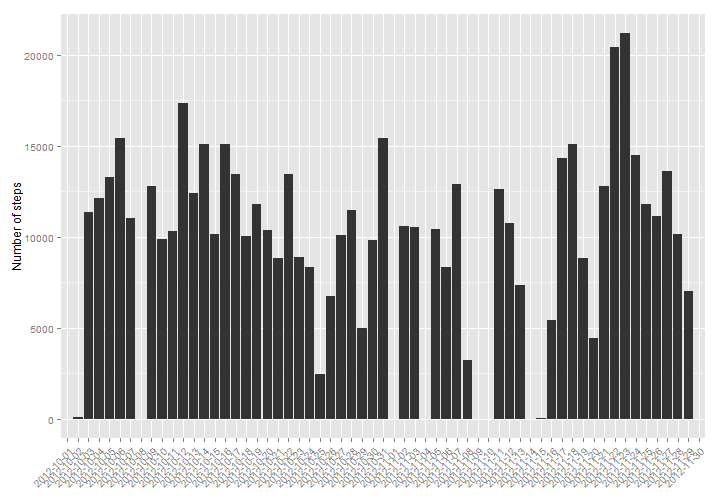
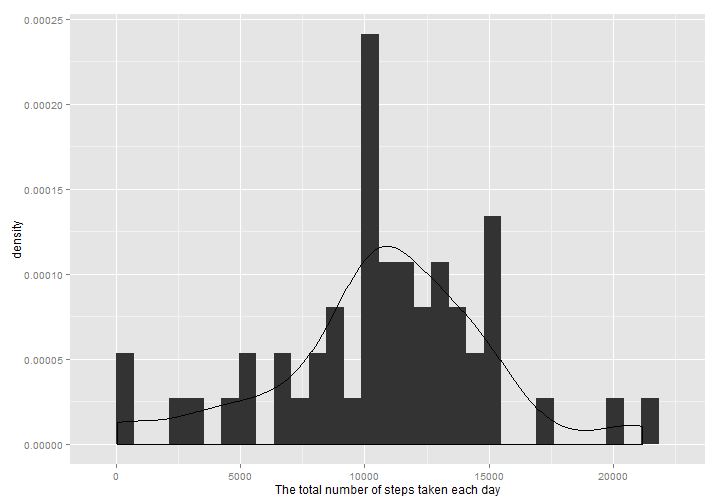
Hist

diff --git a/PA1_template.html b/PA1_template.html
@@ -207,7 +207,12 @@ hr {
 activity$date &lt;- as.Date(activity$date, &quot;%Y-%m-%d&quot;)
 
 library(ggplot2)
-library(grid)
+</code></pre>
+
+<pre><code>## Warning: package &#39;ggplot2&#39; was built under R version 3.1.3
+</code></pre>
+
+<pre><code class="r">library(grid)
 library(gridExtra)
 </code></pre>
 
@@ -224,22 +229,24 @@ library(gridExtra)
 
 <pre><code class="r">x_sum &lt;- tapply(activity$steps, activity$date, sum)
 sum_data &lt;- data.frame(row = seq_len(nrow(x_sum)), date = names(x_sum), sum = as.numeric(x_sum))
-sum_data[is.na(sum_data)] &lt;- 0
 
 steps_mean &lt;- mean(sum_data$sum, na.rm = TRUE)
 steps_median &lt;- median(sum_data$sum, na.rm = TRUE)
 
-ggplot(sum_data, aes(x=date, y=sum)) +
-    geom_bar(stat=&quot;identity&quot;) +
-    ylab(&quot;Number of steps&quot;) +
-    theme(axis.title.x = element_blank(), axis.text.x = element_text(angle = 45, hjust = 1))
+ggplot(data = na.omit(sum_data), aes(x=sum)) +
+    geom_histogram(aes(y = ..density..)) +
+    geom_density() + 
+    xlab(&quot;The total number of steps taken each day&quot;)
 </code></pre>
 
[1 lines of base64/hex data omitted]
+<pre><code>## stat_bin: binwidth defaulted to range/30. Use &#39;binwidth = x&#39; to adjust this.
+</code></pre>
 
-<p>The <strong>mean</strong> of the total number of steps taken per day is <strong>9354.2295082</strong>.</p>
[1 lines of base64/hex data omitted]
 
-<p>The <strong>median</strong> of the total number of steps taken per day is <strong>1.0395 &times; 10<sup>4</sup></strong>.</p>
+<p>The <strong>mean</strong> of the total number of steps taken per day is <strong>1.0766189 &times; 10<sup>4</sup></strong>.</p>
+
+<p>The <strong>median</strong> of the total number of steps taken per day is <strong>1.0765 &times; 10<sup>4</sup></strong>.</p>
 
 <h2>What is the average daily activity pattern?</h2>
 
@@ -322,7 +329,7 @@ wx5_enddata &lt;- data.frame(row = seq_len(nrow(wx5_end)), interval = names(wx5_
 
 p1 &lt;- ggplot(wx5_daydata, aes(x=row, y=mean)) +
     geom_line(stat=&quot;identity&quot;) +
-    ylab(&quot;Number of steps&quot;) +
+    ylab(&quot;Number of steps&quot;) + xlab(&quot; &quot;) +
     ggtitle(&quot;Weekday&quot;) +
     theme(axis.text.x = element_text(angle = 45, hjust = 1)) +
     scale_x_continuous(breaks=c(1,37,73,109,145,181,217,253,289),
@@ -331,7 +338,7 @@ p1 &lt;- ggplot(wx5_daydata, aes(x=row, y=mean)) +
 
 p2 &lt;- ggplot(wx5_enddata, aes(x=row, y=mean)) +
     geom_line(stat=&quot;identity&quot;) +
-    ylab(&quot;Number of steps&quot;) +
+    ylab(&quot;Number of steps&quot;) + xlab(&quot; &quot;) +
     ggtitle(&quot;Weekend&quot;) +
     theme(axis.text.x = element_text(angle = 45, hjust = 1)) +
     scale_x_continuous(breaks=c(1,37,73,109,145,181,217,253,289),
@@ -341,7 +348,7 @@ p2 &lt;- ggplot(wx5_enddata, aes(x=row, y=mean)) +
 grid.arrange(p1, p2, ncol = 1)
 </code></pre>
 
[2 lines of base64/hex data omitted]
 
 </body>
 

diff --git a/PA1_template.md b/PA1_template.md
@@ -11,6 +11,13 @@ activity <- read.csv("activity.csv")
 activity$date <- as.Date(activity$date, "%Y-%m-%d")
 
 library(ggplot2)
+```
+
+```
+## Warning: package 'ggplot2' was built under R version 3.1.3
+```
+
+```r
 library(grid)
 library(gridExtra)
 ```
@@ -33,22 +40,25 @@ Sys.setlocale("LC_TIME", "C")
 ```r
 x_sum <- tapply(activity$steps, activity$date, sum)
 sum_data <- data.frame(row = seq_len(nrow(x_sum)), date = names(x_sum), sum = as.numeric(x_sum))
-sum_data[is.na(sum_data)] <- 0
 
 steps_mean <- mean(sum_data$sum, na.rm = TRUE)
 steps_median <- median(sum_data$sum, na.rm = TRUE)
 
-ggplot(sum_data, aes(x=date, y=sum)) +
-    geom_bar(stat="identity") +
-    ylab("Number of steps") +
-    theme(axis.title.x = element_blank(), axis.text.x = element_text(angle = 45, hjust = 1))
+ggplot(data = na.omit(sum_data), aes(x=sum)) +
+    geom_histogram(aes(y = ..density..)) +
+    geom_density() + 
+    xlab("The total number of steps taken each day")
+```
+
+```
+## stat_bin: binwidth defaulted to range/30. Use 'binwidth = x' to adjust this.
 ```
 
 ![plot of chunk unnamed-chunk-2](figure/unnamed-chunk-2-1.png) 
 
-The **mean** of the total number of steps taken per day is **9354.2295082**.
+The **mean** of the total number of steps taken per day is **1.0766189 &times; 10<sup>4</sup>**.
 
-The **median** of the total number of steps taken per day is **1.0395 &times; 10<sup>4</sup>**.
+The **median** of the total number of steps taken per day is **1.0765 &times; 10<sup>4</sup>**.
 
 ## What is the average daily activity pattern?
 
@@ -140,7 +150,7 @@ wx5_enddata <- data.frame(row = seq_len(nrow(wx5_end)), interval = names(wx5_end
 
 p1 <- ggplot(wx5_daydata, aes(x=row, y=mean)) +
     geom_line(stat="identity") +
-    ylab("Number of steps") +
+    ylab("Number of steps") + xlab(" ") +
     ggtitle("Weekday") +
     theme(axis.text.x = element_text(angle = 45, hjust = 1)) +
     scale_x_continuous(breaks=c(1,37,73,109,145,181,217,253,289),
@@ -149,7 +159,7 @@ p1 <- ggplot(wx5_daydata, aes(x=row, y=mean)) +
 
 p2 <- ggplot(wx5_enddata, aes(x=row, y=mean)) +
     geom_line(stat="identity") +
-    ylab("Number of steps") +
+    ylab("Number of steps") + xlab(" ") +
     ggtitle("Weekend") +
     theme(axis.text.x = element_text(angle = 45, hjust = 1)) +
     scale_x_continuous(breaks=c(1,37,73,109,145,181,217,253,289),
